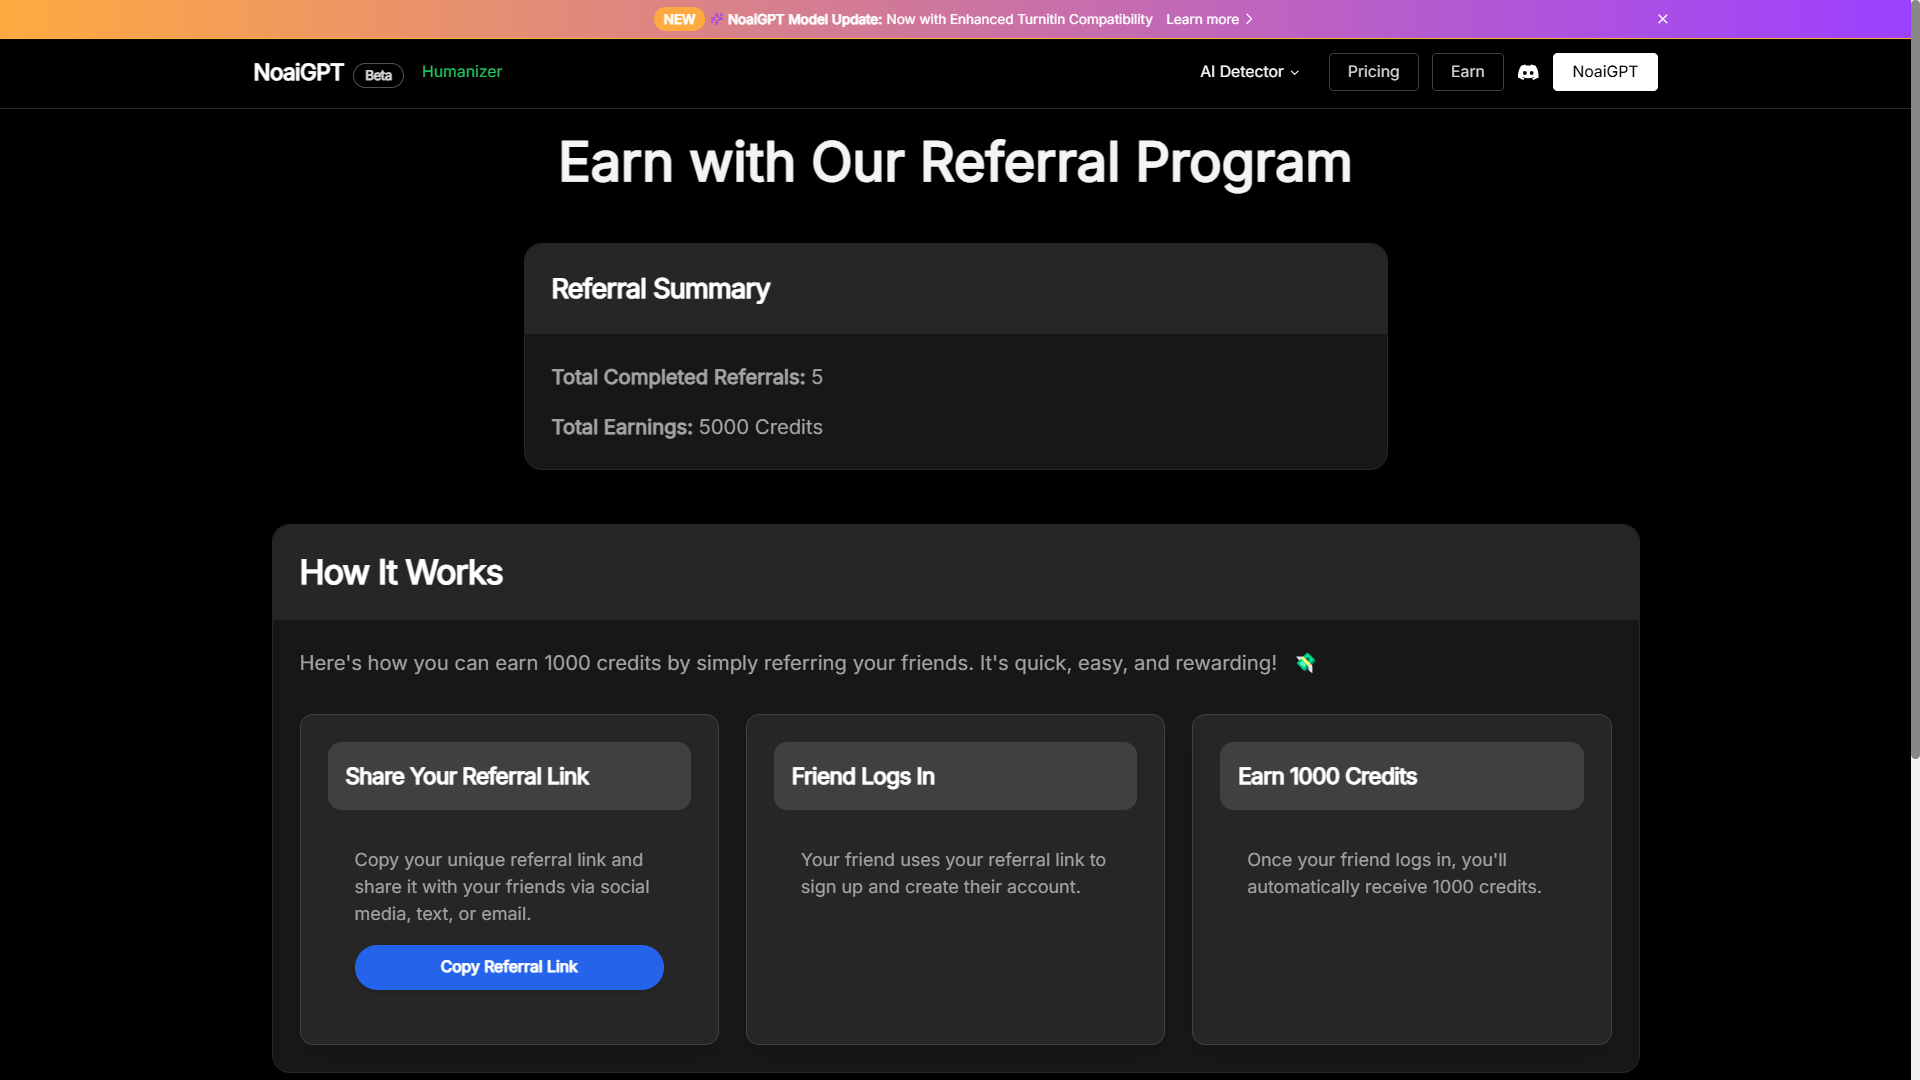
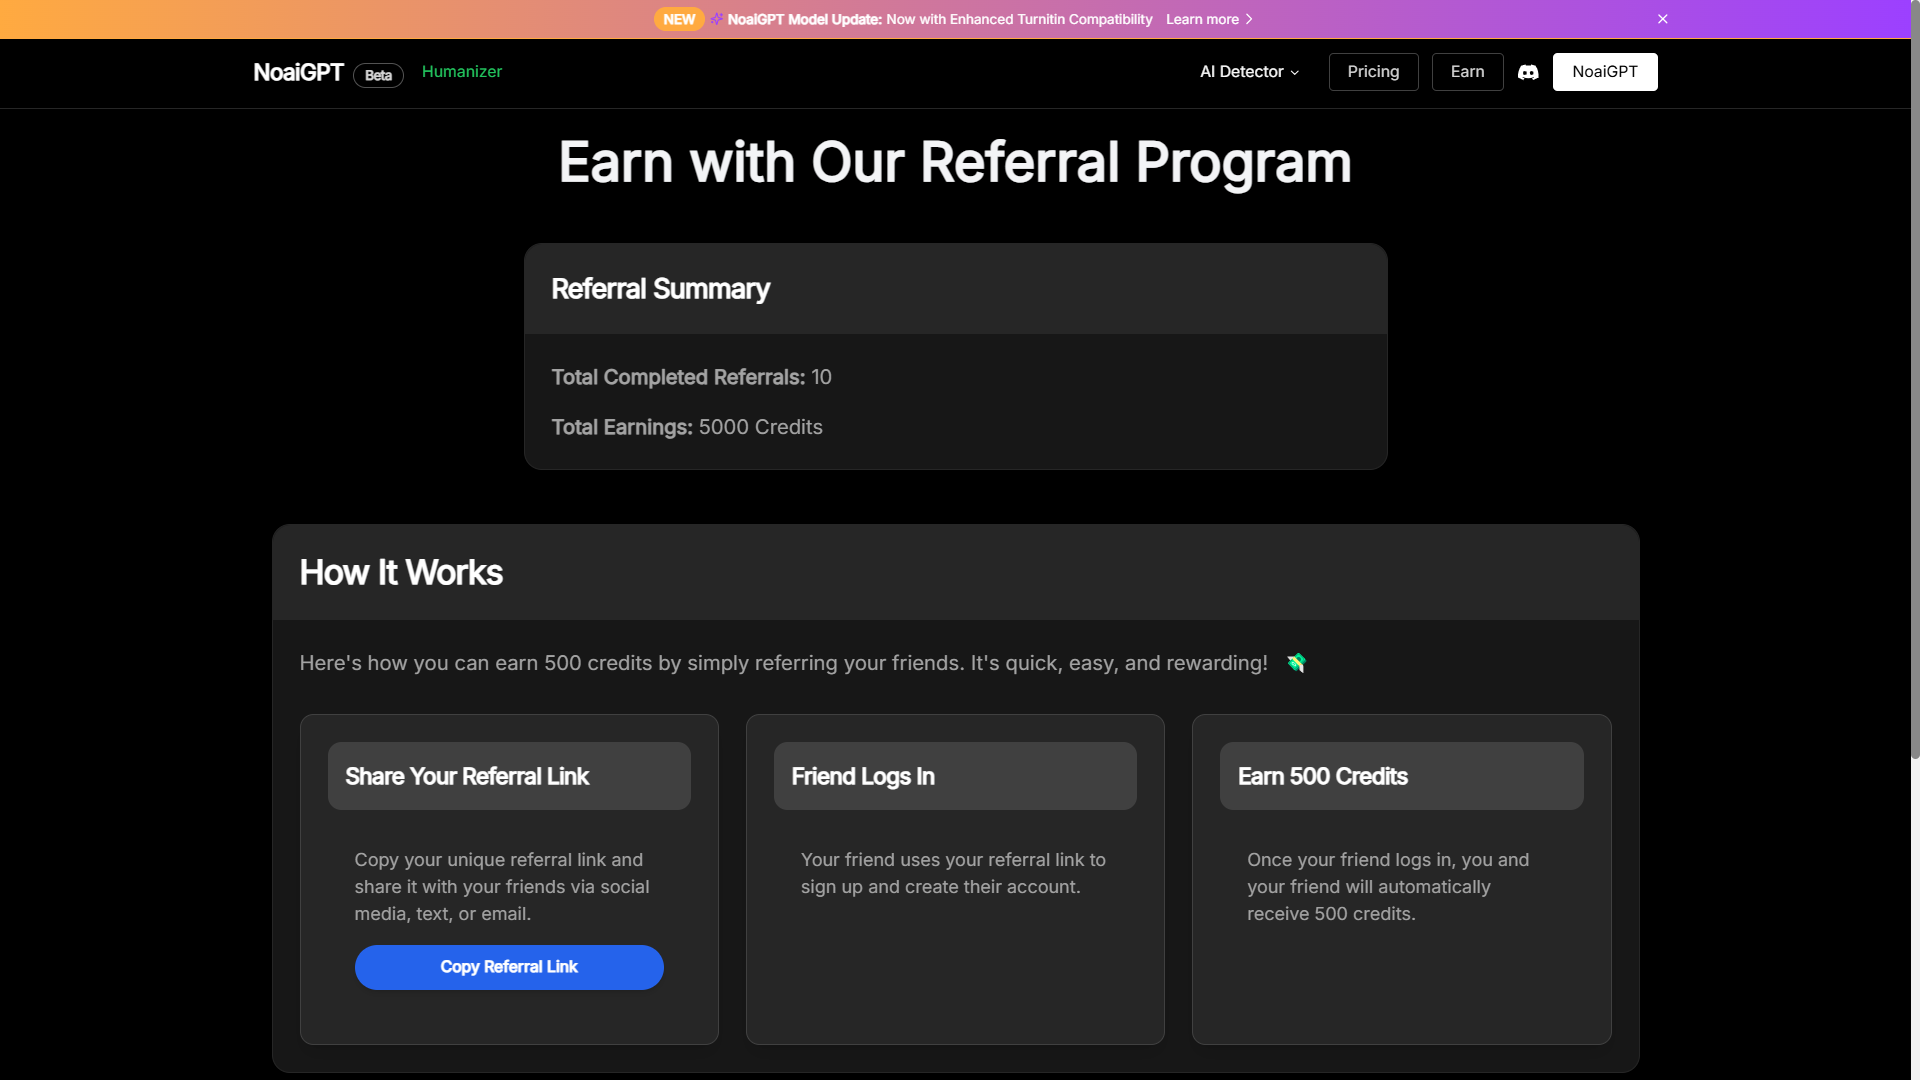
add

Changed region(s): [[0.2812, 0.6111, 0.6875, 0.6417], [0.6562, 0.7944, 0.8125, 0.8556], [0.6562, 0.7028, 0.75, 0.7333]]

diff --git a/src/app/dashboard/history/page.tsx b/src/app/dashboard/history/page.tsx
@@ -148,7 +148,7 @@ const HistoryPage: React.FC = () => {
       
       <div className="bg-black min-h-screen font-sans text-white">
         <main className="pt-9 pb-8 overflow-y-auto">
-          <div className="flex flex-col md:flex-row max-w-7xl justify-between items-center px-20 py-4 mt-20 pt-10 mx-4 md:mx-8 lg:mx-16">
+          <div className="flex flex-col md:flex-row max-w-7xl justify-between items-center px-4 sm:px-8 md:px-20 py-4 mt-20 pt-10 mx-4 sm:mx-8 lg:mx-16">
             <h1 className="text-4xl font-bold text-white mb-4 md:mb-0">Documents History</h1>
             <div className="flex space-x-4">
               <button
@@ -179,30 +179,29 @@ const HistoryPage: React.FC = () => {
               </button>
             </div>
           </div>
-
-          <div className="max-w-7xl justify-center px-20 mx-4 md:mx-8 lg:mx-16">
+  
+          <div className="max-w-7xl justify-center px-4 sm:px-8 lg:px-16 mx-4 sm:mx-8 lg:mx-16">
             {botMessages.length === 0 ? (
               <div className="bg-[#1e2532] rounded-lg p-6" role="alert">
                 <p className="font-bold text-white text-xl mb-2">No messages found</p>
                 <p className="text-gray-400">There are no bot messages in the history.</p>
               </div>
             ) : (
-<div className="grid grid-cols-1 md:grid-cols-2 lg:grid-cols-3 gap-6">
-  {botMessages.map((message) => (
-    <div
-      key={message.id} // This ensures that each message gets its own unique box.
-      className="bg-gray-800 text-white shadow-md rounded-lg p-6 cursor-pointer hover:shadow-lg transition duration-300"
-      onClick={() => setSelectedMessage(message)} // Handle the selection of a message.
-    >
-      <h2 className="text-lg font-semibold mb-2">
-        {message.originalInput.slice(0, 35)}...
-      </h2>
-      <p className="text-gray-400 mb-2 line-clamp-3">{message.text}</p>
-      <p className="text-gray-500 text-sm italic">Click to see full details.</p>
-    </div>
-  ))}
-</div>
-
+              <div className="grid grid-cols-1 sm:grid-cols-2 lg:grid-cols-3 gap-6">
+                {botMessages.map((message) => (
+                  <div
+                    key={message.id}
+                    className="bg-gray-800 text-white shadow-md rounded-lg p-6 cursor-pointer hover:shadow-lg transition duration-300"
+                    onClick={() => setSelectedMessage(message)}
+                  >
+                    <h2 className="text-lg font-semibold mb-2">
+                      {message.originalInput.slice(0, 35)}...
+                    </h2>
+                    <p className="text-gray-400 mb-2 line-clamp-3">{message.text}</p>
+                    <p className="text-gray-500 text-sm italic">Click to see full details.</p>
+                  </div>
+                ))}
+              </div>
             )}
           </div>
           
@@ -230,7 +229,7 @@ const HistoryPage: React.FC = () => {
               </div>
             </div>
           )}
-
+  
           {selectedMessage && (
             <div className="fixed inset-0 bg-black bg-opacity-50 flex items-center justify-center p-4 mx-4">
               <div className="bg-gray-800 text-white rounded-lg w-full max-w-4xl max-h-[80vh] flex flex-col px-4">
@@ -272,7 +271,8 @@ const HistoryPage: React.FC = () => {
         </main>
       </div>
     </>
-  )
+  );
+  
 }
 
 export default HistoryPage;

diff --git a/src/app/earn/page.tsx b/src/app/earn/page.tsx
@@ -104,7 +104,7 @@ const EarnPage = () => {
     
                     const { earnedPointsAsReferrer, totalCompletedReferrals } = response.data;
                     setTotalCompletedReferrals(totalCompletedReferrals);
-                    setEarnings(totalCompletedReferrals * 1000);
+                    setEarnings(totalCompletedReferrals * 500);
                     console.log("Referral data:", response.data);
                 } catch (error) {
                     // Log detailed error information
@@ -204,7 +204,7 @@ const EarnPage = () => {
                         </CardHeader>
                         <CardContent className="p-6 space-y-8">
                             <p className="text-lg text-neutral-400">
-                                Here's how you can earn 1000 credits by simply referring your friends. It's quick, easy, and rewarding!{" "}
+                                Here's how you can earn 500 credits by simply referring your friends. It's quick, easy, and rewarding!{" "}
                                 <span className="ml-2">💸</span>
                             </p>
 
@@ -247,12 +247,12 @@ const EarnPage = () => {
                                 <Card className="bg-neutral-800 border border-neutral-700 shadow-lg p-6 rounded-xl">
                                     <CardHeader className="bg-neutral-700 p-4 rounded-xl">
                                         <CardTitle className="text-xl font-semibold text-white">
-                                            Earn 1000 Credits
+                                            Earn 500 Credits
                                         </CardTitle>
                                     </CardHeader>
                                     <CardContent className="space-y-4">
                                         <p className="text-neutral-400 text-base pt-8">
-                                            Once your friend logs in, you'll automatically receive 1000 credits.
+                                            Once your friend logs in, you and your friend will automatically receive 500 credits.
                                         </p>
                                     </CardContent>
                                 </Card>

diff --git a/src/app/dashboard/page.tsx b/src/app/dashboard/page.tsx
@@ -368,7 +368,7 @@ export default function Home() {
                   ))
               )}
             </div>
-            <div className="p-4 border-t border-gray-800 hidden md:block">
+            <div className="p-4 border-t border-gray-800 md:block">
               <Footer
                 text={text}
                 setText={setText}
@@ -382,7 +382,7 @@ export default function Home() {
           </div>
   
           {/* Right side - Output messages */}
-          <div className="flex flex-col w-full min-h-full md:min-h-auto md:w-[50%] rounded-lg shadow-md border border-gray-800">
+          <div className="flex flex-col w-full min-h-[60%]  md:min-h-auto md:w-[50%] rounded-lg shadow-md border border-gray-800">
           <div className="h-full flex flex-col">
           <div className="flex-grow p-4  relative">
           {loading ? (
@@ -427,6 +427,7 @@ export default function Home() {
                       <button
                         className="px-4 py-2 bg-indigo-600 text-white rounded-md hover:bg-indigo-700 transition-all duration-300 disabled:opacity-50"
                         onClick={() => {
+                          
                           const lastMessage = messages[messages.length - 1];
                           const newIndex =
                             (lastMessage.variantIndex - 1 + lastMessage.variants!.length) % 
@@ -485,7 +486,7 @@ export default function Home() {
           </div>
   
           {/* Footer for mobile view */}
-          <div className="w-full pb-4 md:hidden mt-auto">
+          {/* <div className="w-full pb-4 md:hidden mt-auto">
             <Footer
               text={text}
               setText={setText}
@@ -495,7 +496,7 @@ export default function Home() {
               handleKeyDown={handleKeyDown}
               textareaRef={textareaRef}
             />
-          </div>
+          </div> */}
         </div>
       </main>
   

diff --git a/src/app/dashboard/Footer.tsx b/src/app/dashboard/Footer.tsx
@@ -42,7 +42,7 @@ const Footer: React.FC<FooterProps> = ({
       }
 
       // Simulate button click
-      const button = document.querySelector('button.p-3.text-purple-400');
+      const button = document.querySelector('button.p-3.text-purple-400') as HTMLButtonElement;
       if (button) {
         button.click();
       }

diff --git a/src/components/ui/multi-step-loader.tsx b/src/components/ui/multi-step-loader.tsx
@@ -92,7 +92,7 @@ const LoaderCore = ({
 export const MultiStepLoader = ({
   loadingStates,
   loading,
-  duration = 2000,
+  duration = 3000,
   loop = true,
 }: {
   loadingStates: LoadingState[];
